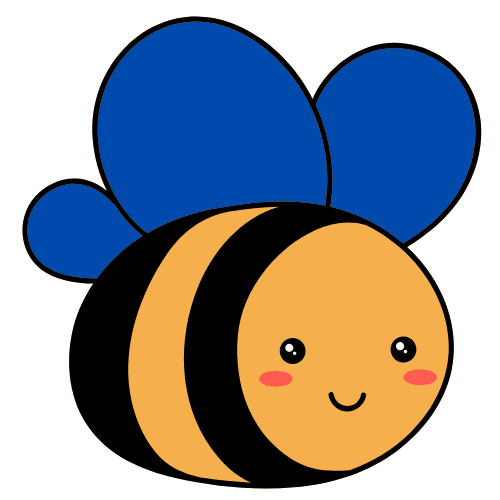
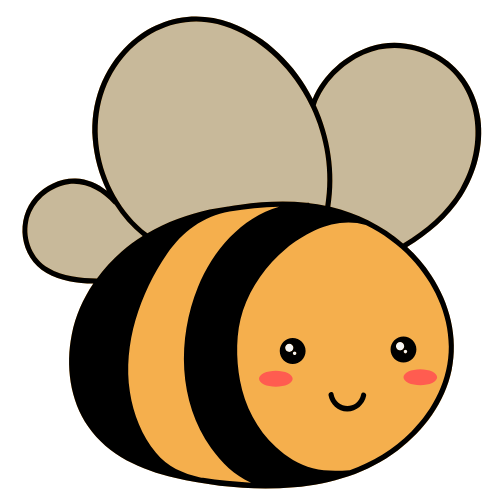
Updated Color Palette

Changed region(s): [[0.03, 0.03, 0.96, 0.57]]

diff --git a/src/components/Skills.js b/src/components/Skills.js
@@ -8,15 +8,16 @@ const skills = [
     description: (
       <>
         I have extensive experience in building interactive and scalable user
-        interfaces using <strong className="text-blue-700">React</strong>, a
-        powerful <strong className="text-blue-700">JavaScript</strong> library.
-        By leveraging <strong className="text-blue-700">Tailwind CSS</strong>, I
-        create custom, responsive designs that ensure an optimized user
-        experience on all devices. I am proficient in using{" "}
-        <strong className="text-blue-700">Grid and Flexbox</strong> layouts to
-        construct flexible, mobile-first designs, ensuring that the application
-        looks great and functions smoothly across various screen sizes and
-        devices.
+        interfaces using <strong className="text-custom-light">React</strong>, a
+        powerful <strong className="text-custom-light">JavaScript</strong>{" "}
+        library. By leveraging{" "}
+        <strong className="text-custom-light">Tailwind CSS</strong>, I create
+        custom, responsive designs that ensure an optimized user experience on
+        all devices. I am proficient in using{" "}
+        <strong className="text-custom-light">Grid and Flexbox</strong> layouts
+        to construct flexible, mobile-first designs, ensuring that the
+        application looks great and functions smoothly across various screen
+        sizes and devices.
       </>
     ),
   },
@@ -24,14 +25,15 @@ const skills = [
     title: "Application Logic Development",
     description: (
       <>
-        On the backend, I use <strong className="text-blue-700">Node.js</strong>{" "}
-        to develop efficient and scalable server-side applications, ensuring
-        robust performance even under heavy traffic. I integrate{" "}
-        <strong className="text-blue-700">MongoDB</strong> for NoSQL data
+        On the backend, I use{" "}
+        <strong className="text-custom-light">Node.js</strong> to develop
+        efficient and scalable server-side applications, ensuring robust
+        performance even under heavy traffic. I integrate{" "}
+        <strong className="text-custom-light">MongoDB</strong> for NoSQL data
         storage, creating highly flexible and scalable databases. Additionally,
         I design and implement{" "}
-        <strong className="text-blue-700">RESTful APIs</strong>, allowing smooth
-        communication between the frontend and backend of applications,
+        <strong className="text-custom-light">RESTful APIs</strong>, allowing
+        smooth communication between the frontend and backend of applications,
         facilitating data exchange and enhancing overall functionality.
       </>
     ),
@@ -42,11 +44,11 @@ const skills = [
       <>
         I prioritize mobile-first design principles to ensure every project is
         fully mobile-responsive. By using modern CSS techniques and frameworks
-        like <strong className="text-blue-700">Tailwind CSS</strong>, I create
-        websites and applications that adapt seamlessly to all screen sizes,
-        providing users with an optimal experience across desktops, tablets, and
-        smartphones. My focus is on creating fluid, intuitive designs that make
-        navigating on mobile devices as easy as on desktops.
+        like <strong className="text-custom-light">Tailwind CSS</strong>, I
+        create websites and applications that adapt seamlessly to all screen
+        sizes, providing users with an optimal experience across desktops,
+        tablets, and smartphones. My focus is on creating fluid, intuitive
+        designs that make navigating on mobile devices as easy as on desktops.
       </>
     ),
   },
@@ -55,11 +57,11 @@ const skills = [
     description: (
       <>
         In addition to coding, I have a strong background in{" "}
-        <strong className="text-blue-700">UI design</strong>, where I focus on
-        crafting clean, modern, and user-friendly interfaces that enhance the
+        <strong className="text-custom-light">UI design</strong>, where I focus
+        on crafting clean, modern, and user-friendly interfaces that enhance the
         user experience. I place a strong emphasis on{" "}
-        <strong className="text-blue-700">UX strategy</strong>, ensuring that
-        the applications I build are intuitive and easy to use. I use
+        <strong className="text-custom-light">UX strategy</strong>, ensuring
+        that the applications I build are intuitive and easy to use. I use
         prototyping and wireframing tools to visualize the structure of the
         application and create interactive prototypes for client review,
         streamlining the design process and improving user interaction.
@@ -71,14 +73,14 @@ const skills = [
     description: (
       <>
         I am proficient in using{" "}
-        <strong className="text-blue-700">GitHub</strong> for version control
-        and collaboration. By leveraging{" "}
-        <strong className="text-blue-700">Git</strong>, I can efficiently manage
-        code, track changes, and ensure that the development process is smooth
-        and well-documented. This allows me to collaborate effectively with
-        teams, maintain clean code, and manage deployments, ensuring that the
-        development workflow remains organized and efficient, even in larger,
-        more complex projects.
+        <strong className="text-custom-light">GitHub</strong> for version
+        control and collaboration. By leveraging{" "}
+        <strong className="text-custom-light">Git</strong>, I can efficiently
+        manage code, track changes, and ensure that the development process is
+        smooth and well-documented. This allows me to collaborate effectively
+        with teams, maintain clean code, and manage deployments, ensuring that
+        the development workflow remains organized and efficient, even in
+        larger, more complex projects.
       </>
     ),
   },
@@ -87,7 +89,7 @@ const skills = [
     description: (
       <>
         In addition to my technical expertise, I offer{" "}
-        <strong className="text-blue-700">
+        <strong className="text-custom-light">
           copywriting and graphic design skills
         </strong>
         , which allow me to bring a creative touch to every project. I write

diff --git a/src/components/DocumentsSection.js b/src/components/DocumentsSection.js
@@ -32,7 +32,7 @@ const DocumentsSection = () => {
           transition={{ duration: 1.5, ease: "easeInOut" }} // Animation duration and easing
           className="text-4xl sm:text-5xl md:text-7xl font-extrabold tracking-widest text-white"
         >
-          A Journey of Excellence
+          A Journey of <strong className="text-custom-light">Excellence</strong>
         </motion.h2>
 
         {/* Paragraph with animation */}
@@ -42,12 +42,16 @@ const DocumentsSection = () => {
           transition={{ duration: 1.2, delay: 0.5, ease: "easeInOut" }} // Animation duration, delay, and easing
           className="mt-4 text-lg sm:text-xl md:text-2xl text-gray-200 font-bold"
         >
-          From the very first line of code to the final project, my journey at
-          HyperionDev, South Africa's leading coding school, has been nothing
-          short of remarkable. Graduating with a 99% average, I’ve proven that
-          hard work, dedication, and passion can turn aspirations into reality.
-          But don’t just take my word for it—take a peek at the proof below and
-          see the results for yourself.
+          From the very first line of code to the final project, my journey at{" "}
+          <strong className="text-custom-light">
+            HyperionDev, South Africa's leading coding school
+          </strong>
+          , has been nothing short of remarkable. Graduating with a{" "}
+          <strong className="text-custom-light">99% average</strong>, I’ve
+          proven that hard work, dedication, and passion can turn aspirations
+          into reality. But don’t just take my word for it—take a peek at the
+          proof <strong className="text-custom-light">below</strong> and see the
+          results for yourself.
         </motion.p>
 
         {/* Action Links Section */}
@@ -62,11 +66,11 @@ const DocumentsSection = () => {
             href="https://www.hyperiondev.com/portfolio/322818/" // Link to the report card
             target="_blank"
             rel="noopener noreferrer"
-            className="bg-indigo-900 hover:bg-indigo-700 text-white py-3 px-6 sm:px-8 rounded-lg text-lg font-semibold transform transition-all duration-300 ease-in-out shadow-lg hover:scale-105"
+            className="bg-black hover:bg-custom-light border-custom-light border-2 text-white py-3 px-6 sm:px-8 rounded-lg text-lg font-semibold transform transition-all duration-300 ease-in-out shadow-lg hover:scale-105"
             whileHover={{ scale: 1.05 }} // Slightly scale up on hover
             whileTap={{ scale: 0.95 }} // Slightly scale down on tap (click)
           >
-            View My Report Card
+            Report Card
           </motion.a>
 
           {/* Certificate Link */}
@@ -74,11 +78,35 @@ const DocumentsSection = () => {
             href="https://www.hyperiondev.com/certificate/6025/certificate-of-completion?intent=view" // Link to the certificate
             target="_blank"
             rel="noopener noreferrer"
-            className="bg-indigo-900 hover:bg-indigo-700 text-white py-3 px-6 sm:px-8 rounded-lg text-lg font-semibold transform transition-all duration-300 ease-in-out shadow-lg hover:scale-105"
+            className="bg-black hover:bg-custom-light border-custom-light border-2 text-white py-3 px-6 sm:px-8 rounded-lg text-lg font-semibold transform transition-all duration-300 ease-in-out shadow-lg hover:scale-105"
             whileHover={{ scale: 1.05 }} // Hover scale animation
             whileTap={{ scale: 0.95 }} // Tap scale animation
           >
-            View My Certificate
+            Certification
+          </motion.a>
+
+          {/* Certificate Link */}
+          <motion.a
+            href="https://github.com/JohaneNeethling" // Link to GitHub
+            target="_blank"
+            rel="noopener noreferrer"
+            className="bg-black hover:bg-custom-light border-custom-light border-2 text-white py-3 px-6 sm:px-8 rounded-lg text-lg font-semibold transform transition-all duration-300 ease-in-out shadow-lg hover:scale-105"
+            whileHover={{ scale: 1.05 }} // Hover scale animation
+            whileTap={{ scale: 0.95 }} // Tap scale animation
+          >
+            GitHub
+          </motion.a>
+
+          {/* Certificate Link */}
+          <motion.a
+            href="https://www.linkedin.com/in/johane-neethling/" // Link to LinkedIn
+            target="_blank"
+            rel="noopener noreferrer"
+            className="bg-black hover:bg-custom-light border-custom-light border-2 text-white py-3 px-6 sm:px-8 rounded-lg text-lg font-semibold transform transition-all duration-300 ease-in-out shadow-lg hover:scale-105"
+            whileHover={{ scale: 1.05 }} // Hover scale animation
+            whileTap={{ scale: 0.95 }} // Tap scale animation
+          >
+            LinkedIn
           </motion.a>
         </motion.div>
       </div>

diff --git a/src/components/Footer.js b/src/components/Footer.js
@@ -3,12 +3,12 @@ import { motion } from "framer-motion"; // Import motion from framer-motion for 
 
 const Footer = () => {
   return (
-    <div className="relative bg-gray-900 text-white py-5">
+    <div className="relative bg-black text-white py-5">
       {" "}
       {/* Outer container for the footer */}
       {/* Background Animation: Using motion to animate a gradient background */}
       <motion.div
-        className="absolute inset-0 bg-gradient-to-r from-indigo-700 via-blue-500 to-purple-600 opacity-50"
+        className="absolute inset-0 bg-black opacity-50"
         animate={{
           scale: [1, 1.05, 1], // Scale animation (zoom in and out effect)
           opacity: [0.3, 0.6, 0.3], // Fade in and out effect
@@ -38,10 +38,10 @@ const Footer = () => {
         >
           {/* LinkedIn Icon */}
           <motion.a
-            href="https://www.linkedin.com/in/johane-neethling-474179321/"
+            href="https://www.linkedin.com/in/johane-neethling"
             target="_blank"
             rel="noopener noreferrer"
-            className="text-gray-300 hover:text-blue-500 text-2xl transition-transform duration-300 ease-out"
+            className="text-gray-300 hover:text-custom-light text-2xl transition-transform duration-300 ease-out"
             whileHover={{ scale: 1.2 }} // Increase size on hover
             whileTap={{ scale: 0.9 }} // Decrease size on tap
           >
@@ -53,23 +53,11 @@ const Footer = () => {
             href="https://github.com/JohaneNeethling"
             target="_blank"
             rel="noopener noreferrer"
-            className="text-gray-300 hover:text-blue-500 text-2xl transition-transform duration-300 ease-out"
+            className="text-gray-300 hover:text-custom-light text-2xl transition-transform duration-300 ease-out"
             whileHover={{ scale: 1.2 }}
             whileTap={{ scale: 0.9 }}
           >
             <i className="fab fa-github"></i> {/* GitHub icon */}
-          </motion.a>
-
-          {/* Instagram Icon */}
-          <motion.a
-            href="https://www.instagram.com/johane_neethling/"
-            target="_blank"
-            rel="noopener noreferrer"
-            className="text-gray-300 hover:text-blue-500 text-2xl transition-transform duration-300 ease-out"
-            whileHover={{ scale: 1.2 }}
-            whileTap={{ scale: 0.9 }}
-          >
-            <i className="fab fa-instagram"></i> {/* Instagram icon */}
           </motion.a>
 
           {/* Portfolio Link */}
@@ -77,7 +65,7 @@ const Footer = () => {
             href="https://www.hyperiondev.com/portfolio/322818/"
             target="_blank"
             rel="noopener noreferrer"
-            className="text-gray-300 hover:text-blue-500 text-xl transition-transform duration-300 ease-out"
+            className="text-gray-300 hover:text-custom-light text-xl transition-transform duration-300 ease-out"
             whileHover={{ scale: 1.2 }}
             whileTap={{ scale: 0.9 }}
           >
@@ -89,7 +77,7 @@ const Footer = () => {
             href="https://www.hyperiondev.com/certificate/6025/certificate-of-completion?intent=view"
             target="_blank"
             rel="noopener noreferrer"
-            className="text-gray-300 hover:text-blue-500 text-xl transition-transform duration-300 ease-out"
+            className="text-gray-300 hover:text-custom-light text-xl transition-transform duration-300 ease-out"
             whileHover={{ scale: 1.2 }}
             whileTap={{ scale: 0.9 }}
           >

diff --git a/src/components/Contact.js b/src/components/Contact.js
@@ -54,13 +54,22 @@ const ContactSection = () => {
               animate={{ opacity: 1, y: 0 }}
               transition={{ duration: 1.5, delay: 0.9 }}
             >
-              I believe in the power of collaboration and creativity to build
-              meaningful digital solutions. Whether you're looking to start a
-              new project, enhance an existing one, or simply discuss ideas, I'm
+              I believe in the power of{" "}
+              <strong className="text-custom-light">
+                collaboration and creativity
+              </strong>{" "}
+              to build meaningful digital solutions. Whether you're looking to
+              start a <strong className="text-custom-light">new</strong>{" "}
+              project, <strong className="text-custom-light">enhance</strong> an
+              existing one, or simply{" "}
+              <strong className="text-custom-light">discuss ideas</strong>, I'm
               here to help. As a dedicated full-stack developer, I bring a
-              combination of technical expertise and a user-centric approach to
-              every project. Feel free to reach out—I’d love to learn more about
-              your goals and how we can bring them to life together.
+              combination of{" "}
+              <strong className="text-custom-light">technical expertise</strong>{" "}
+              and a <strong className="text-custom-light">user-centric</strong>{" "}
+              approach to every project. Feel free to reach out—I’d love to
+              learn more about your goals and how we can bring them to life{" "}
+              <strong className="text-custom-light">together</strong>.
             </motion.p>
           </div>
 
@@ -108,7 +117,7 @@ const ContactSection = () => {
                 animate={{ opacity: 1 }}
                 transition={{ duration: 1, delay: 0.4 }}
                 type="submit"
-                className="w-full py-4 mt-6 rounded-md font-noto text-white border-2 border-white text-xl font-semibold hover:text-blue-700 hover:border-blue-700 transition duration-300"
+                className="w-full py-4 mt-6 rounded-md font-noto text-white border-2 border-white text-xl font-semibold hover:text-custom-light hover:border-custom-light transition duration-300"
               >
                 Send Message
               </motion.button>

diff --git a/src/components/Portfolio.js b/src/components/Portfolio.js
@@ -78,7 +78,7 @@ const PortfolioSection = () => {
         <div className="max-w-6xl mx-auto">
           {/* Heading for the Portfolio Section */}
           <motion.h2
-            className="text-xl sm:text-8xl md:text-8xl font-extrabold font-noto mb-12 text-center text-blue-700 tracking-widest mt-7"
+            className="text-xl sm:text-8xl md:text-8xl font-extrabold font-noto mb-12 text-center text-custom-light tracking-widest mt-7"
             initial={{ opacity: 0, y: -50 }} // Initial animation state
             animate={{ opacity: 1, y: 0 }} // Final animation state
             transition={{ duration: 1 }} // Transition timing
@@ -143,7 +143,7 @@ const PortfolioSection = () => {
                     href={project.link}
                     target="_blank"
                     rel="noopener noreferrer"
-                    className="px-5 py-3 sm:px-6 sm:py-4 text-lg font-bold text-white bg-indigo-900 rounded-full shadow-lg transform transition-all hover:scale-105 hover:bg-indigo-400 hover:shadow-2xl"
+                    className="px-5 py-3 sm:px-6 sm:py-4 text-lg font-bold text-white border-custom-light border-2 bg-black rounded-full shadow-lg transform transition-all hover:scale-105 hover:bg-custom-light hover:shadow-2xl"
                     initial={{ opacity: 0 }}
                     animate={{ opacity: 1 }}
                     transition={{ duration: 0.5, delay: 0.4 }} // Button transition

diff --git a/src/components/HeroSection.js b/src/components/HeroSection.js
@@ -24,7 +24,7 @@ const HeroSection = () => {
 
   return (
     <>
-      <div className="relative min-h-screen bg-gradient-to-r from-blue-500 via-purple-500 to-blue-100 dark:bg-gradient-to-r dark:from-gray-800 dark:via-gray-900 dark:to-black overflow-hidden">
+      <div className="relative min-h-screen dark:bg-gradient-to-r dark:from-gray-800 dark:via-gray-900 dark:to-black overflow-hidden">
         {/* Dynamic animated background */}
         <motion.div
           className="absolute inset-0 bg-no-repeat bg-cover" // Apply background cover
@@ -62,7 +62,7 @@ const HeroSection = () => {
           <motion.h1
             whileHover={{ scale: 1.1 }} // Scale the text up on hover
             transition={{ type: "spring", stiffness: 300 }} // Spring-based transition for smooth scaling
-            className="text-3xl sm:text-5xl md:text-7xl lg:text-9xl font-noto tracking-widest font-extrabold text-blue-700"
+            className="text-3xl sm:text-5xl md:text-7xl lg:text-9xl font-noto tracking-widest font-extrabold text-custom-light"
           >
             DIGITAL HOME
           </motion.h1>

diff --git a/src/components/BioSection.js b/src/components/BioSection.js
@@ -1,7 +1,7 @@
 import React from "react"; // Import React library to use JSX and components
 import { motion } from "framer-motion"; // Import motion from framer-motion for animations
 import Johane from "../assets/JohaneNeethling.jpeg"; // Import image for profile picture
-import BeeBG from "../assets/BeeBg.png"; // Import background image for the section
+import BeeBG from "../assets/BeeBg2.png"; // Import background image for the section
 
 const BioSection = () => {
   return (
@@ -21,7 +21,7 @@ const BioSection = () => {
             transition={{ duration: 1.5, delay: 0.3 }} // Animation duration and delay settings
           >
             hi there, I'm{" "}
-            <span className="block text-blue-700 text-5xl md:text-7xl font-bold font-noto">
+            <span className="block text-custom-light text-5xl md:text-7xl font-bold font-noto">
               Johane Neethling
             </span>
           </motion.h2>

diff --git a/src/components/Navigation.js b/src/components/Navigation.js
@@ -37,7 +37,7 @@ const Navigation = () => {
             (item, index) => (
               <motion.li
                 key={index}
-                className="text-white hover:text-blue-500 font-medium"
+                className="text-white hover:text-custom-light font-medium"
                 whileHover={{ scale: 1.1, y: -5 }}
                 transition={{ type: "spring", stiffness: 300 }}
               >

diff --git a/tailwind.config.js b/tailwind.config.js
@@ -6,6 +6,9 @@ module.exports = {
       fontFamily: {
         noto: ["'Noto Serif Display'", "serif"],
       },
+      colors: {
+        "custom-light": "#E6CF9B",
+      },
     },
   },
   plugins: [],
